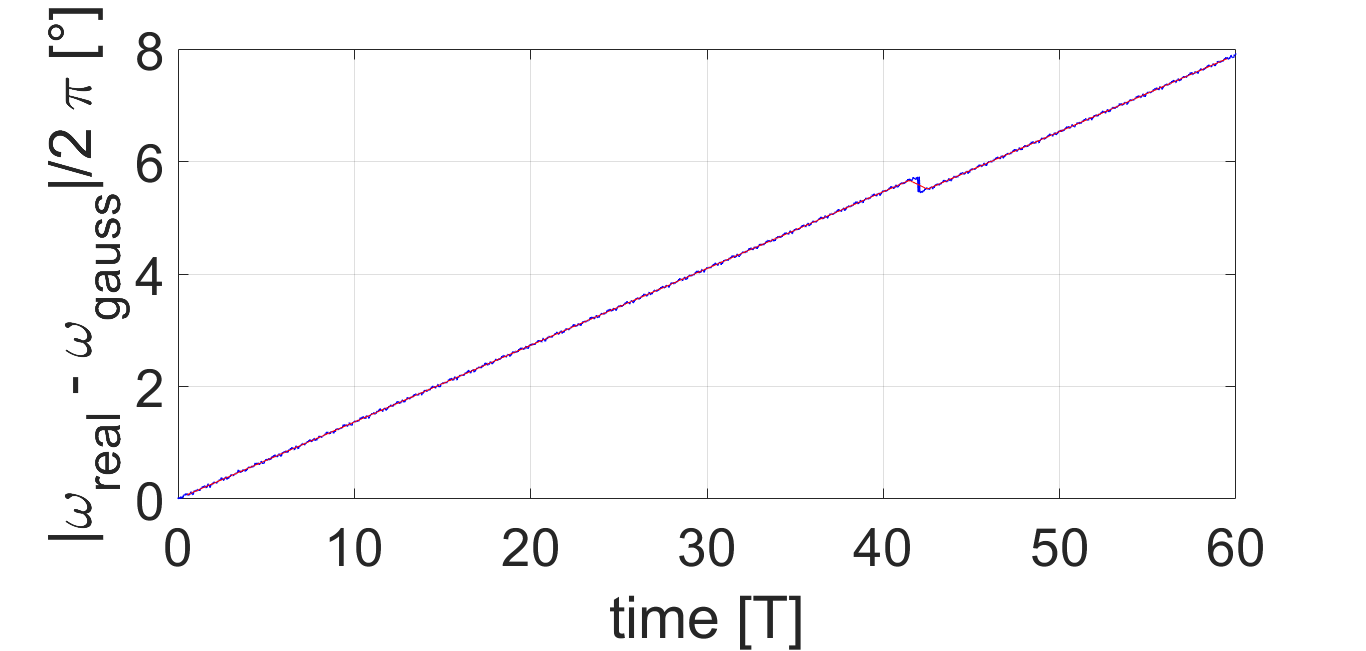
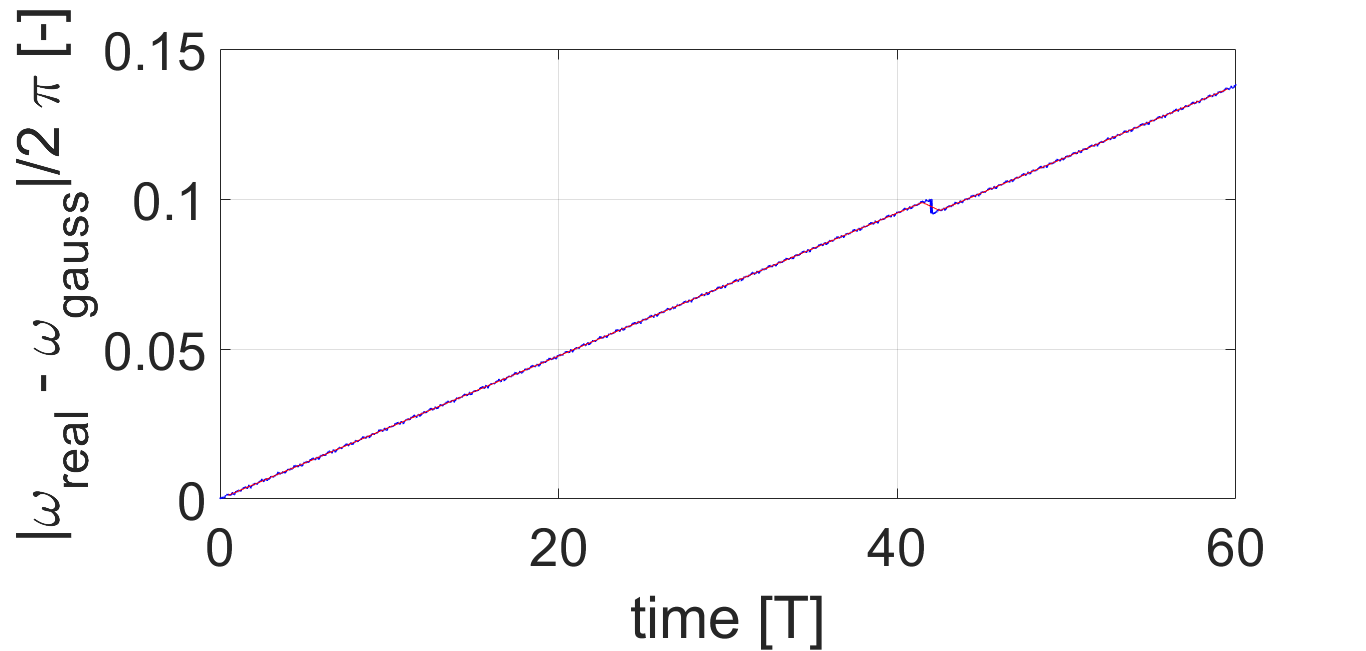
fixed error

diff --git a/Planetary Explorer Mission/Assignment2/PlanetaryMission_group_2346.m b/Planetary Explorer Mission/Assignment2/PlanetaryMission_group_2346.m
@@ -477,7 +477,7 @@ s0 = [orbit_new_object.a; orbit_new_object.e; orbit_new_object.i; orbit_new_obje
 options = odeset( 'RelTol', 1e-13, 'AbsTol', 1e-14 );
 [t, kep_new_object] = ode113(@(t,s) eq_motion(t, s, @(t,s) acc_pert_fun(t, s, earth.mu, earth.r, earth.J2, earth.om, spacecraft.AM, spacecraft.cD), earth.mu), tspan_nb, s0, options);
 
-% filter for movmean
+%% filter for movmean
 
 num_elements=length(kep_new_object(:,1));
 num_elements_per_period=num_elements/n_orbits;
@@ -595,9 +595,9 @@ hold on
 plot(tspan_nb./(Period), movmean(a_diff,num_elements_per_period,'Endpoints','fill'),'r',LineWidth=1.5)
 hold off
 grid on
-title('Semi major axis EvolutionEvolution Real Data vs  Propagation Method Difference');
+title('Semi major axis Evolution Real Data vs  Propagation Method Difference');
 legend('Difference','Filtered','Location', 'Best');
-xlabel('time [T]'); ylabel('|a_r_e_a_l - a_g_a_u_s_s|/ a_0 [km]');
+xlabel('time [T]'); ylabel('|a_r_e_a_l - a_g_a_u_s_s|/ a_0 [-]');
 
 % Eccentricity
 figure()
@@ -607,57 +607,58 @@ hold on
 plot(tspan_nb./(Period), movmean(e_diff,num_elements_per_period,'Endpoints','fill'),'r',LineWidth=1.5)
 hold off
 grid on
-title('Eccentricity Evolution Evolution Real Data vs Propagation Method Difference');
+title('Eccentricity Evolution Real Data vs Propagation Method Difference');
 legend('Difference','Filtered','Location', 'Best');
 xlabel('time [T]'); ylabel('|e_r_e_a_l - e_g_a_u_s_s| [-]');
+
 
 % Inclination
 figure()
 i_diff=abs(deg2rad(orbit_new_object.i_no_prop)-kep_new_object(:,3))/(2*pi());
-plot(tspan_nb./(Period),rad2deg(i_diff),'b')
+plot(tspan_nb./(Period),i_diff,'b')
 hold on
-plot(tspan_nb./(Period), movmean(rad2deg(i_diff),num_elements_per_period,'Endpoints','fill'),'r',LineWidth=1.5)
+plot(tspan_nb./(Period), movmean(i_diff,num_elements_per_period,'Endpoints','fill'),'r',LineWidth=1.5)
 hold off
 grid on
-title('Inclination Evolution Evolution Real Data vs Propagation Method Difference');
+title('Inclination Evolution Real Data vs Propagation Method Difference');
 legend('Difference','Filtered','Location', 'Best');
-xlabel('time [T]'); ylabel('|i_r_e_a_l - i_g_a_u_s_s|/2 \pi [°]');
+xlabel('time [T]'); ylabel('|i_r_e_a_l - i_g_a_u_s_s|/2 \pi [-]');
 
 % RAAN
 figure()
 Om_diff=abs(deg2rad(unwrap(orbit_new_object.OM_no_prop))-unwrap(kep_new_object(:,4)))/(2*pi());
-plot(tspan_nb./(Period),rad2deg(Om_diff),'b',LineWidth=1.2)
+plot(tspan_nb./(Period),Om_diff,'b',LineWidth=1.2)
 hold on
-plot(tspan_nb./(Period), movmean(rad2deg(Om_diff),num_elements_per_period,'Endpoints','fill'),'r')
+plot(tspan_nb./(Period), movmean(Om_diff,num_elements_per_period,'Endpoints','fill'),'r')
 hold off
 grid on
 title('RAAN Evolution Evolution Real Data vs Propagation Method Difference');
 legend('Difference','Filtered','Location', 'Best');
-xlabel('time [T]'); ylabel('|\Omega_r_e_a_l - \Omega_g_a_u_s_s|/2 \pi [°]');
+xlabel('time [T]'); ylabel('|\Omega_r_e_a_l - \Omega_g_a_u_s_s|/2 \pi [-]');
 
 % Argument of periapsis
 figure()
 om_diff=abs(deg2rad(unwrap(orbit_new_object.om_no_prop))-unwrap(kep_new_object(:,5)))/(2*pi());
-plot(tspan_nb./(Period),rad2deg(om_diff),'b',LineWidth=1)
+plot(tspan_nb./(Period),om_diff,'b',LineWidth=1)
 hold on
-plot(tspan_nb./(Period), movmean(rad2deg(om_diff),num_elements_per_period,'Endpoints','fill'),'r')
+plot(tspan_nb./(Period), movmean(om_diff,num_elements_per_period,'Endpoints','fill'),'r')
 hold off
 grid on
-title('Argument of Periapsis Evolution Evolution Real Data vs Propagation Method Difference');
+title('Argument of Periapsis Evolution Real Data vs Propagation Method Difference');
 legend('Difference','Filtered','Location', 'Best');
-xlabel('time [T]'); ylabel('|\omega_r_e_a_l - \omega_g_a_u_s_s|/2 \pi [°]');
+xlabel('time [T]'); ylabel('|\omega_r_e_a_l - \omega_g_a_u_s_s|/2 \pi [-]');
 
 % True anomaly
 figure()
 theta_diff=abs(unwrap(orbit_new_object.theta_no_prop)-unwrap(kep_new_object(:,6)))./abs(unwrap(orbit_new_object.theta_no_prop));
-plot(tspan_nb./(Period),rad2deg(wrapTo2Pi(theta_diff)),'b')
+plot(tspan_nb./(Period),theta_diff,'b')
 hold on
-plot(tspan_nb./(Period), movmean(rad2deg(wrapTo2Pi(theta_diff)),num_elements_per_period,'Endpoints','fill'),'r',LineWidth=1.5)
+plot(tspan_nb./(Period), movmean(theta_diff,num_elements_per_period,'Endpoints','fill'),'r',LineWidth=1.5)
 hold off
 grid on
 title('True Anomaly Evolution Real Data vs Propagation Method Difference');
 legend('Difference','Filtered','Location', 'Best');
-xlabel('time [T]'); ylabel('|\theta_r_e_a_l - \theta_g_a_u_s_s|/ \theta_r_e_a_l[°]');
+xlabel('time [T]'); ylabel('|\theta_r_e_a_l - \theta_g_a_u_s_s|/ \theta_r_e_a_l[-]');
 
 
 %% Test animation 
@@ -702,7 +703,7 @@ hold on
 plot3( Y(end,1), Y(end,2), Y(end,3), 'or',MarkerEdgeColor='b' )
 ani1=animatedline('Color','r');
 earthPlot;
-title('Simulation')
+title('Animation')
 for i=1:length(tspan)
     addpoints(ani1,Y(i,1), Y(i,2), Y(i,3));
     drawnow
